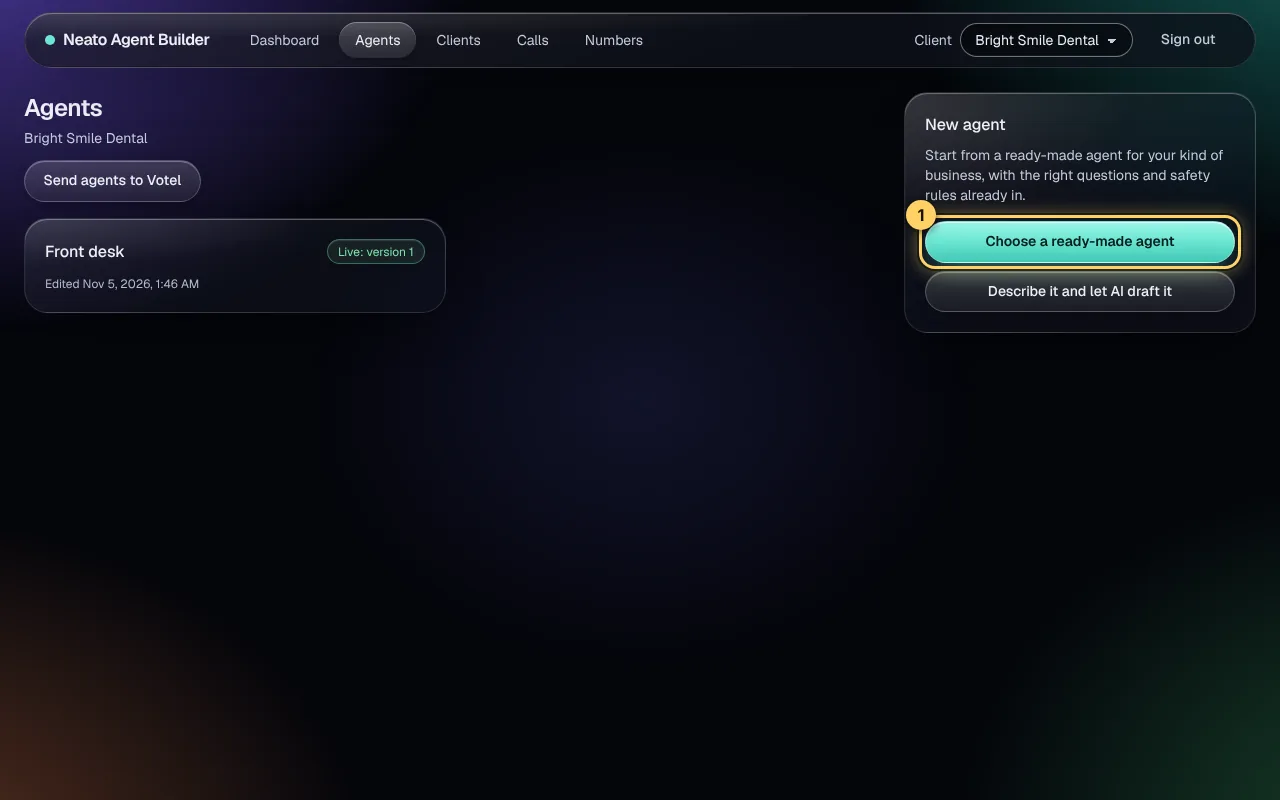
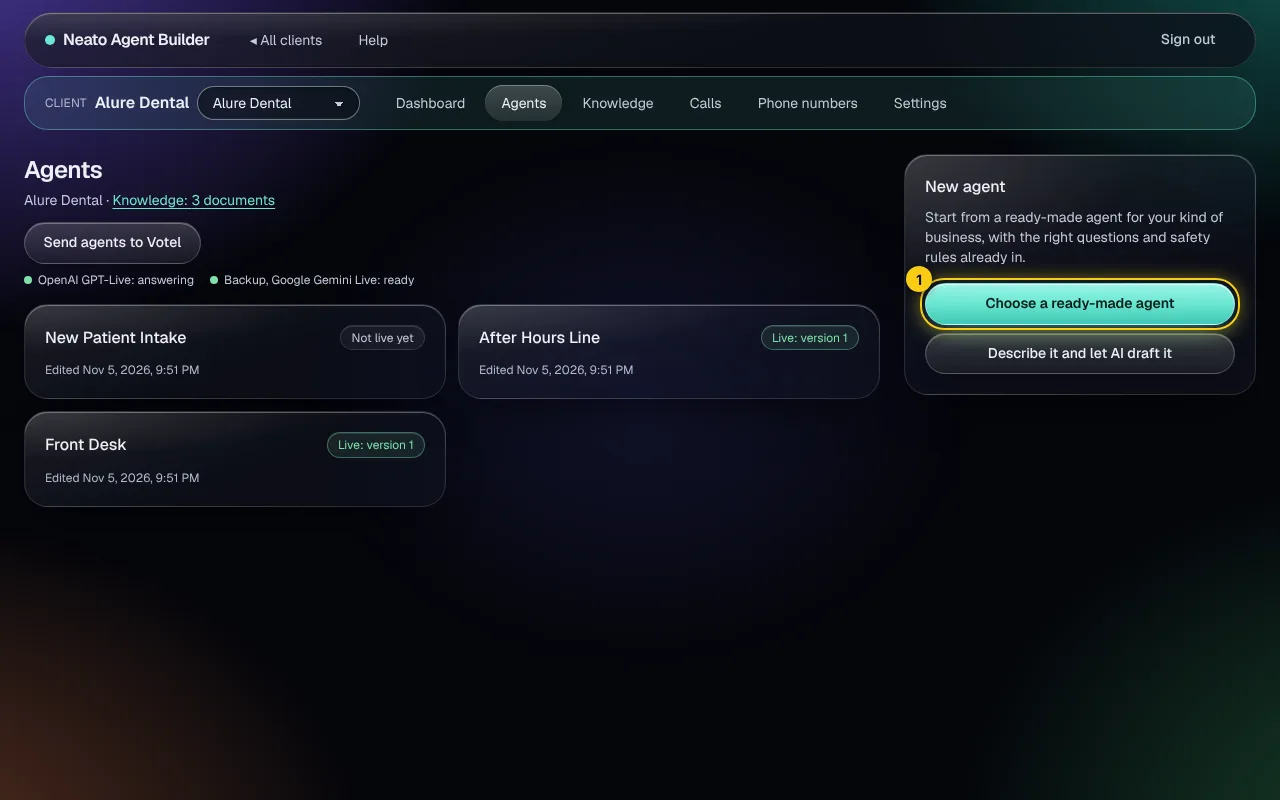
Help: retake every screenshot for the two-level layout
All 19 help images now show the All clients home and the coloured client bar with its tabs, drawn
from demo data on a throwaway test client (since removed). around.webp was missing and is added.
Heights and the around alt text updated to match the new screens.

Claude-Session: https://claude.ai/code/session_01YNpW4RTWuTh7h7hg412bGz

diff --git a/apps/web/src/app/(app)/help/page.tsx b/apps/web/src/app/(app)/help/page.tsx
@@ -94,7 +94,7 @@ export default function HelpPage() {
           <li>To go back up, click <B>◂ All clients</B> at the top left of the top bar.</li>
           <li>To change a client&apos;s name (a typo, say), open the client, choose <B>Settings</B>, edit the <B>Client name</B> and choose <B>Save name</B>.</li>
         </Steps>
-        <Shot name="around" height={620} alt="Inside a client: the coloured bar names Right Weight Scale and lists its Dashboard, Agents, Knowledge, Calls, Phone numbers and Settings, with All clients at the top left"
+        <Shot name="around" height={250} alt="Inside a client: the coloured bar names the client and lists its Dashboard, Agents, Knowledge, Calls, Phone numbers and Settings, with All clients at the top left"
           caption="1: back to All clients. 2: which client you are in (and a menu to switch to another). 3: everything about that client." />
         <Tip>
           If you ever wonder whose dashboard or agents you are looking at, look at the coloured bar: it always says. Anything that
@@ -121,7 +121,7 @@ export default function HelpPage() {
         <P>
           Clients and Votel stay in step, in both directions, through one tag: <B>agent-builder-client</B>.
         </P>
-        <Shot name="clients-votel" height={420} alt="The Add a client form and the Add from Votel panel at the bottom of the All clients page"
+        <Shot name="clients-votel" height={425} alt="The Add a client form and the Add from Votel panel at the bottom of the All clients page"
           caption="At the bottom of the All clients page: add a client here (and in Votel), or bring clients over from Votel with Add from Votel." />
         <Steps>
           <li><B>From Votel to here:</B> in Votel, open a contact and give it the tag <B>agent-builder-client</B>. Back here, choose <B>Check Votel for clients</B> (under <B>Add from Votel</B>) and then <B>Add as client</B>. It becomes a client with its own empty workspace. If the contact has a company name, that is the client&apos;s name.</li>
@@ -152,11 +152,11 @@ export default function HelpPage() {
           person, and what it must never say.
         </P>
         <Shot name="agents" alt="The Agents page with the Choose a ready-made agent button highlighted" height={800} caption="1: start here." />
-        <Shot name="gallery" alt="The gallery of ready-made agents with a search box" caption="1: search by kind of business. 2: click one to see what it does." />
+        <Shot name="gallery" height={900} alt="The gallery of ready-made agents with a search box" caption="1: search by kind of business. 2: click one to see what it does." />
         <P>
           Click a card to see what it handles, what it asks every caller, and the rules it follows. Then make it yours:
         </P>
-        <Shot name="template" alt="A ready-made dental agent with a form for the business name and description"
+        <Shot name="template" height={900} alt="A ready-made dental agent with a form for the business name and description"
           caption="1: the name callers hear. 2: describe the business: where you are, what you offer, when you're open. 3: create it." />
         <Tip>
           The agent only says what is written in the description. It never makes up prices, hours or availability. If it
@@ -186,7 +186,7 @@ export default function HelpPage() {
           Stuck for words? Open <B>Ask AI to change this agent</B>, say what you want (for example, “be more formal”), and
           review the changes before you apply them.
         </P>
-        <Shot name="unsaved" height={260} alt="The editor header showing Unsaved changes and a Save changes button"
+        <Shot name="unsaved" height={259} alt="The editor header showing Unsaved changes and a Save changes button"
           caption="1: when you change something, Save changes lights up. Saving makes a new version; it doesn't go live yet." />
 
         <H id="knowledge">Give your agent knowledge</H>
@@ -196,7 +196,7 @@ export default function HelpPage() {
           named in the coloured bar). Only that client&apos;s agents use it, and what you add for one client is never heard by another.
           To add knowledge for a different client, open that client first (click it under <B>All clients</B>, or use the client menu in the coloured bar), then choose <B>Knowledge</B>.
         </P>
-        <Shot name="knowledge" height={800} alt="The Knowledge page: a box to choose or drop files, a place to write a document, and a list of documents with who uses each"
+        <Shot name="knowledge" height={920} alt="The Knowledge page: a box to choose or drop files, a place to write a document, and a list of documents with who uses each"
           caption="1: choose or drop files. 2: or write a document here. 3: a document; click it to read or change it. 4: which agents use it." />
         <Steps>
           <li>Choose <B>Choose files</B>, or drop files onto the box. Markdown (<B>.md</B>) and plain text (<B>.txt</B>) both work, up to 2 MB each, and you can add several at once. A long file, such as a whole website saved as one Markdown file, is split into parts for you at its headings (&ldquo;Example site (part 2 of 6)&rdquo;). Or open <B>Or write a document here</B> and type or paste it.</li>
@@ -232,7 +232,7 @@ export default function HelpPage() {
           a customer. Headphones help stop echo. You can mute the microphone or end the call at any time, and the
           transcript appears as you talk.
         </P>
-        <Shot name="testcall" alt="The test call page with a Start call button" caption="1: start the call." />
+        <Shot name="testcall" height={480} alt="The test call page with a Start call button" caption="1: start the call." />
         <Tip>Test calls use the <B>published</B> version. If you just saved changes, publish them first to hear them.</Tip>
 
         <H id="publish">Put it live</H>
@@ -249,7 +249,7 @@ export default function HelpPage() {
           design what visitors will see. Everything fits on one screen: the controls are on the left in three tabs, and the
           preview and your code are on the right.
         </P>
-        <Shot name="embed" height={1289} alt="The Put on website page: the access bar with Visitors can, the design tabs, live preview and the code"
+        <Shot name="embed" height={1351} alt="The Put on website page: the access bar with Visitors can, the design tabs, live preview and the code"
           caption="1: whether visitors can talk, chat or both (in the access bar, after Change). 2: the design tabs. 3: switch between the preview and trying it live. 4: the live preview. 5: your code, with your choices already in it." />
         <Steps>
           <li><B>Words, color, logo:</B> the words on the button, its color (pick a swatch or type your own hex code, like #0f766e), and an optional logo. Upload a PNG, JPG or WebP under 512 KB and it shows as a small round badge.</li>
@@ -323,7 +323,7 @@ export default function HelpPage() {
           Votel.
         </P>
         <Shot name="calls" alt="The list of calls" caption="1: open a call." />
-        <Shot name="call" alt="A call with its transcript and what the agent did" />
+        <Shot name="call" height={900} alt="A call with its transcript and what the agent did" />
 
         <H id="share">Share with a client</H>
         <P>
@@ -342,7 +342,7 @@ export default function HelpPage() {
           Open <B>Usage and billing</B> in the top bar to see the total minutes for each client, month by month. Use the arrows to move
           between months. Only clients you own are listed, so each person only sees their own.
         </P>
-        <Shot name="usage" height={560} alt="The Usage page: a month, the minutes for each client, billable minutes and download buttons"
+        <Shot name="usage" height={660} alt="The Usage page: a month, the minutes for each client, billable minutes and download buttons"
           caption="1: choose the month. 2: billable minutes, the number to bill from. 3: chats, counted separately. 4: download every client as a spreadsheet. 5: download the calls behind one client's total." />
         <Steps>
           <li><B>Minutes</B> is the exact time on the line, from pick-up to hang-up.</li>
